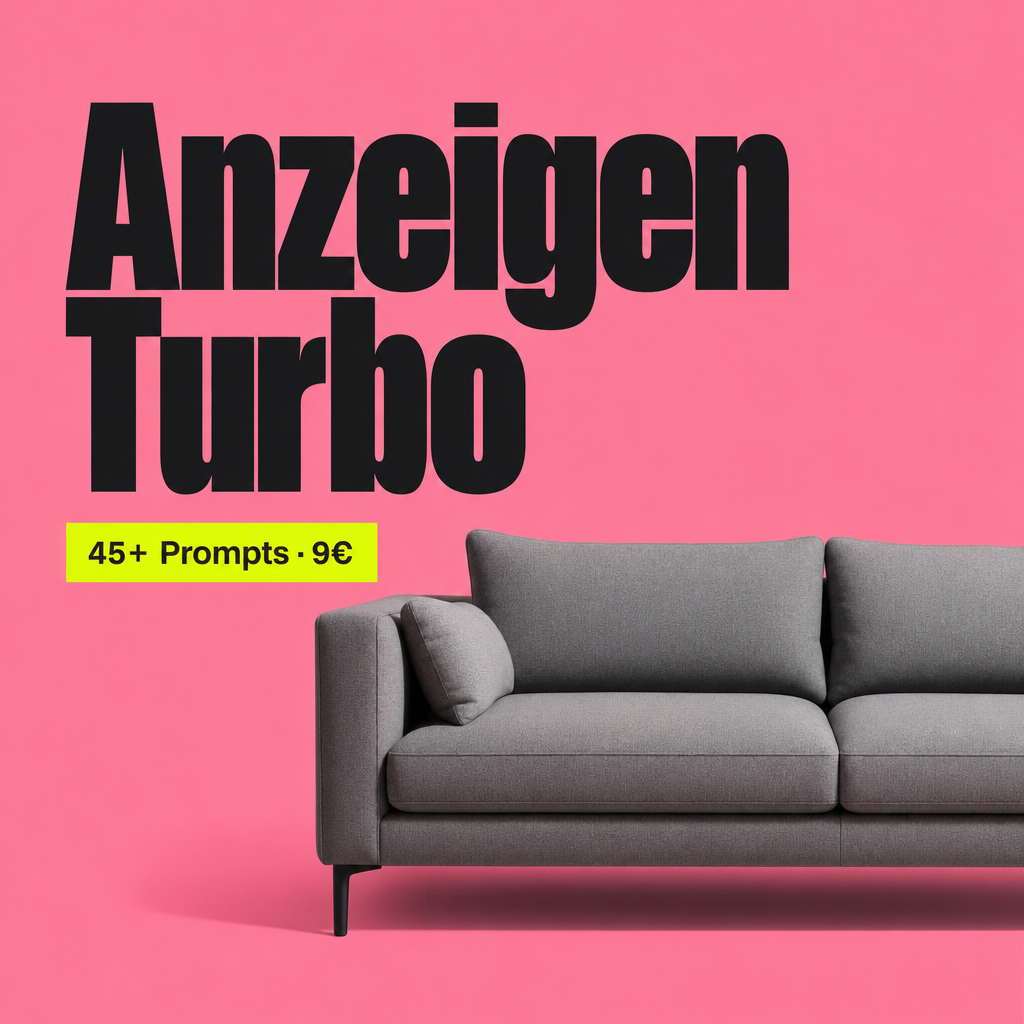
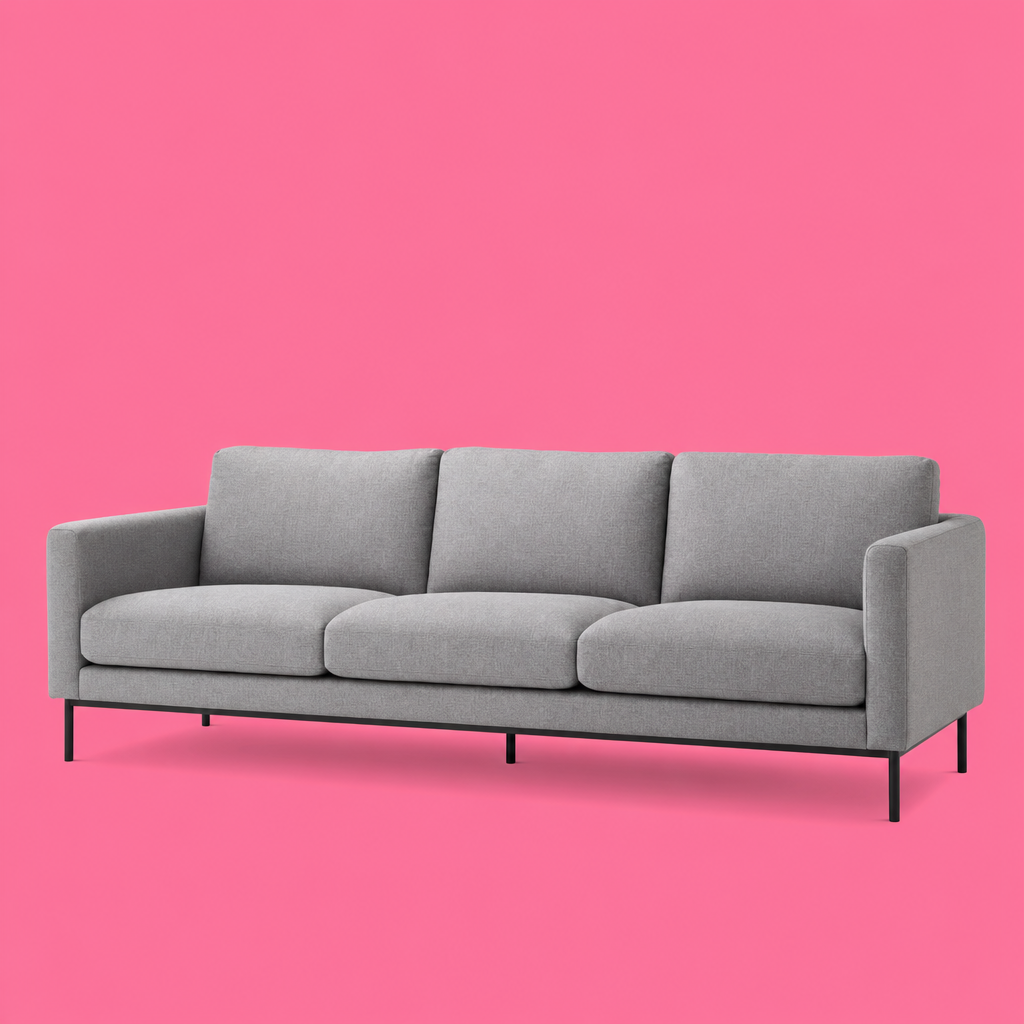
Fix hero cover: clean sofa object, contain layout, cache bust

diff --git a/index.html b/index.html
@@ -6,7 +6,7 @@
   <title>AnzeigenTurbo – Verkaufstexte in fünf Minuten</title>
   <meta name="description" content="45+ KI-Prompts für eBay Kleinanzeigen, Vinted, Etsy und Shopify. Einmalig 9€ – Sofort-Download." />
   <script>document.documentElement.classList.add("js");</script>
-  <link rel="stylesheet" href="./styles.css" />
+  <link rel="stylesheet" href="./styles.css?v=3" />
 </head>
 <body data-pack="voll">
   <header class="top">
@@ -22,8 +22,8 @@
         <a class="button hero-buy-inline" id="buy-btn" href="#kaufen">Jetzt für 9€</a>
       </div>
 
-      <figure class="hero-object drift">
-        <img id="hero-shot" src="./assets/anzeigenturbo-cover.png" width="1024" height="1024" alt="AnzeigenTurbo Produktcover" />
+      <figure class="hero-object">
+        <img id="hero-shot" src="./assets/anzeigenturbo-cover.png?v=3" width="1024" height="1024" alt="Modernes Sofa als Motiv für AnzeigenTurbo" />
       </figure>
 
       <div class="pack-meta wrap">
@@ -33,8 +33,8 @@
 
       <div class="arc" aria-label="Nischen wählen">
         <div class="arc-track" id="arc-track" tabindex="0" role="listbox" aria-label="Prompt-Packs">
-          <button type="button" class="arc-item is-active" role="option" aria-selected="true" data-pack="voll" data-name="Vollzugriff" data-fact="45+ Prompts · 9€" data-sample="Modernes Sofa Grau – 3-Sitzer, top Zustand, Abholung Berlin" data-img="./assets/anzeigenturbo-cover.png" data-alt="AnzeigenTurbo Produktcover">
-            <span class="arc-frame"><img src="./assets/anzeigenturbo-cover.png" width="1024" height="1024" alt="" /></span>
+          <button type="button" class="arc-item is-active" role="option" aria-selected="true" data-pack="voll" data-name="Vollzugriff" data-fact="45+ Prompts · 9€" data-sample="Modernes Sofa Grau – 3-Sitzer, top Zustand, Abholung Berlin" data-img="./assets/anzeigenturbo-cover.png?v=3" data-alt="Modernes Sofa als Motiv für AnzeigenTurbo">
+            <span class="arc-frame"><img src="./assets/anzeigenturbo-cover.png?v=3" width="1024" height="1024" alt="" /></span>
             <span class="sr-only">Vollzugriff</span>
           </button>
           <button type="button" class="arc-item" role="option" aria-selected="false" data-pack="mode" data-name="Mode" data-fact="Titel &amp; Maße für Kleidung" data-sample="Vintage Blazer Wolle Gr. M – kaum getragen, rauchfrei" data-img="./assets/found/robe-a-la-polonaise.jpg" data-alt="Historisches Kleid als Motiv für Mode-Anzeigen">
@@ -197,7 +197,7 @@
 
     <section class="cta" id="schluss" aria-labelledby="cta-heading">
       <div class="cta-media shutter drift" data-reveal>
-        <img src="./assets/anzeigenturbo-cover.png" width="1024" height="1024" alt="AnzeigenTurbo Cover aus anderem Ausschnitt" loading="lazy" decoding="async" />
+        <img src="./assets/anzeigenturbo-cover.png?v=3" width="1024" height="1024" alt="Modernes Sofa – AnzeigenTurbo Motiv" loading="lazy" decoding="async" />
       </div>
       <div class="cta-copy" data-reveal>
         <h2 id="cta-heading">Bereit für bessere Anzeigen.</h2>

diff --git a/styles.css b/styles.css
@@ -179,25 +179,25 @@ body { overflow-x: hidden; }
 
 .hero-object {
   position: absolute;
-  right: var(--margin);
-  top: 8vh;
-  width: min(46vw, 520px);
+  right: max(var(--margin), 2vw);
+  top: 6vh;
+  width: min(42vw, 480px);
   aspect-ratio: 1 / 1;
   height: auto;
   margin: 0;
   overflow: hidden;
   background: transparent;
-  transform: rotate(-4deg);
+  transform: rotate(-3deg);
   z-index: 1;
   pointer-events: none;
-  box-shadow: 12px 18px 0 rgba(10, 10, 10, 0.12);
+  box-shadow: 10px 14px 0 rgba(10, 10, 10, 0.14);
 }
 .hero-object img {
   width: 100%;
   max-width: none;
   height: 100%;
-  object-fit: cover;
-  object-position: center;
+  object-fit: contain;
+  object-position: center bottom;
   margin: 0;
 }
 .pack-meta {
@@ -605,12 +605,12 @@ body { overflow-x: hidden; }
   overflow: hidden;
 }
 .cta-media img {
-  width: 140%;
+  width: 100%;
   max-width: none;
   height: 100%;
   object-fit: cover;
-  object-position: center top;
-  margin-left: -10%;
+  object-position: center 40%;
+  margin: 0;
 }
 .cta-copy {
   position: relative;
@@ -759,13 +759,14 @@ body { overflow-x: hidden; }
     position: relative;
     right: auto;
     top: auto;
-    width: calc(100% - (2 * var(--margin)));
+    width: min(92vw, 420px);
     aspect-ratio: 1 / 1;
     height: auto;
     max-height: none;
-    margin: 1.25rem var(--margin) 0;
+    margin: 1.25rem auto 0;
     transform: rotate(-2deg);
     pointer-events: auto;
+    box-shadow: 8px 12px 0 rgba(10, 10, 10, 0.14);
   }
   .hero {
     display: flex;
